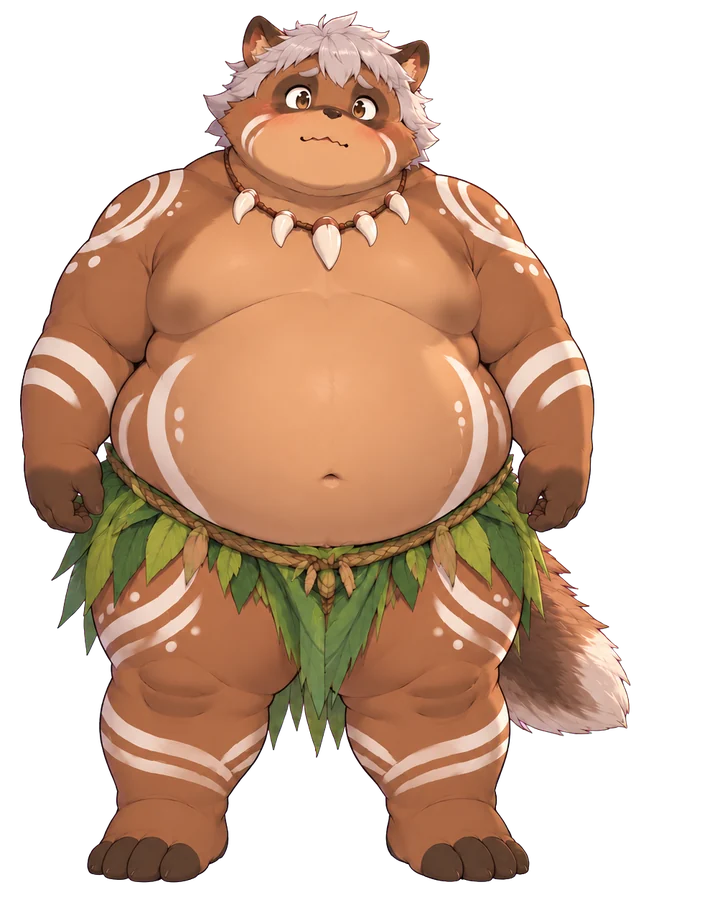
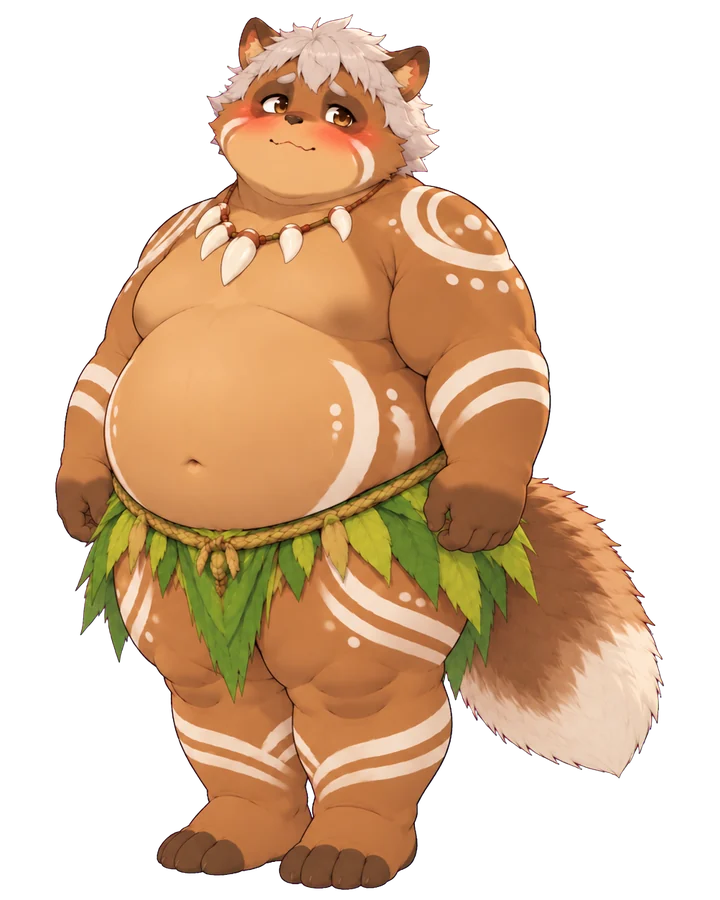
Replace troubled face with angled version matching other poses
Claude-Session: https://claude.ai/code/session_01QrSEsgaPePgyv6pVp7rR2o

diff --git a/tanukun/README.md b/tanukun/README.md
@@ -28,7 +28,7 @@
 |---|---|
 | 通常 | normal（通常） |
 | 照れ | shy（照れ顔） |
-| 困り | troubled（困り顔） |
+| 困り | troubled（困り顔・斜め向き） |
 | とろけ | melt（とろけ顔） |
 | おなかタップ | ponpoko1 ⇔ ponpoko2 を交互に（照れ中は muni） |
 | 怒り | angry（怒り顔） |
